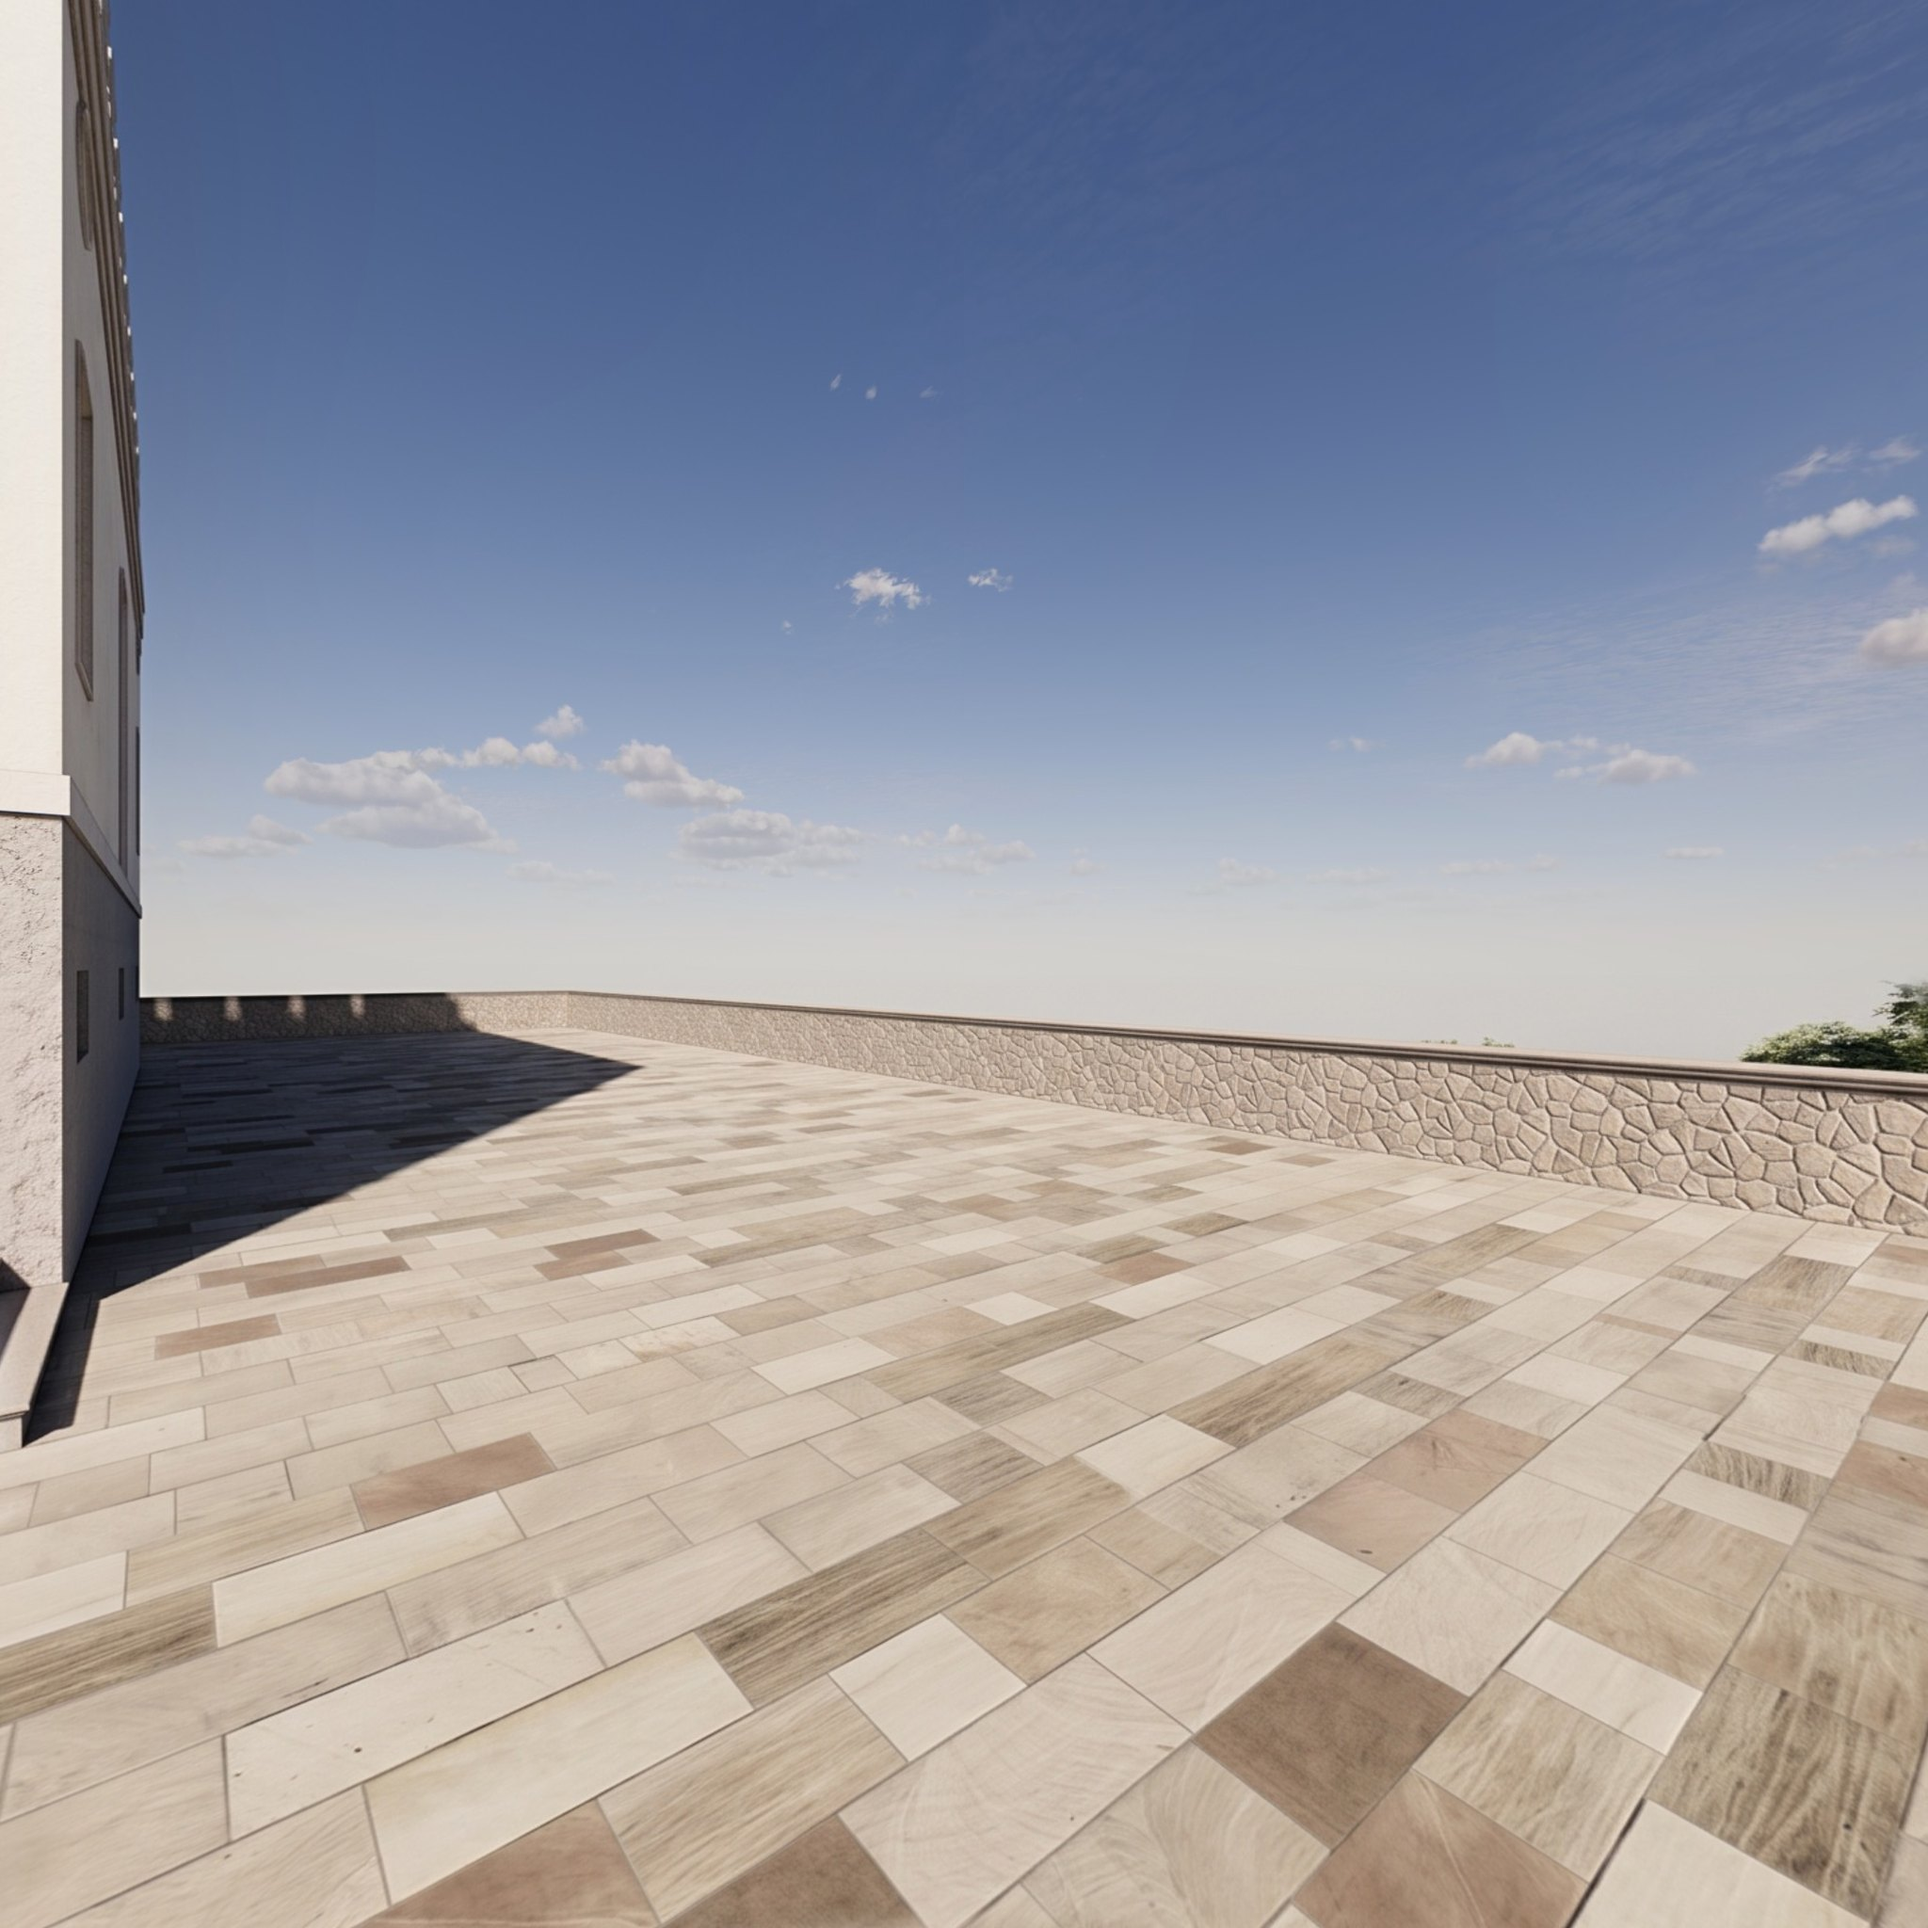
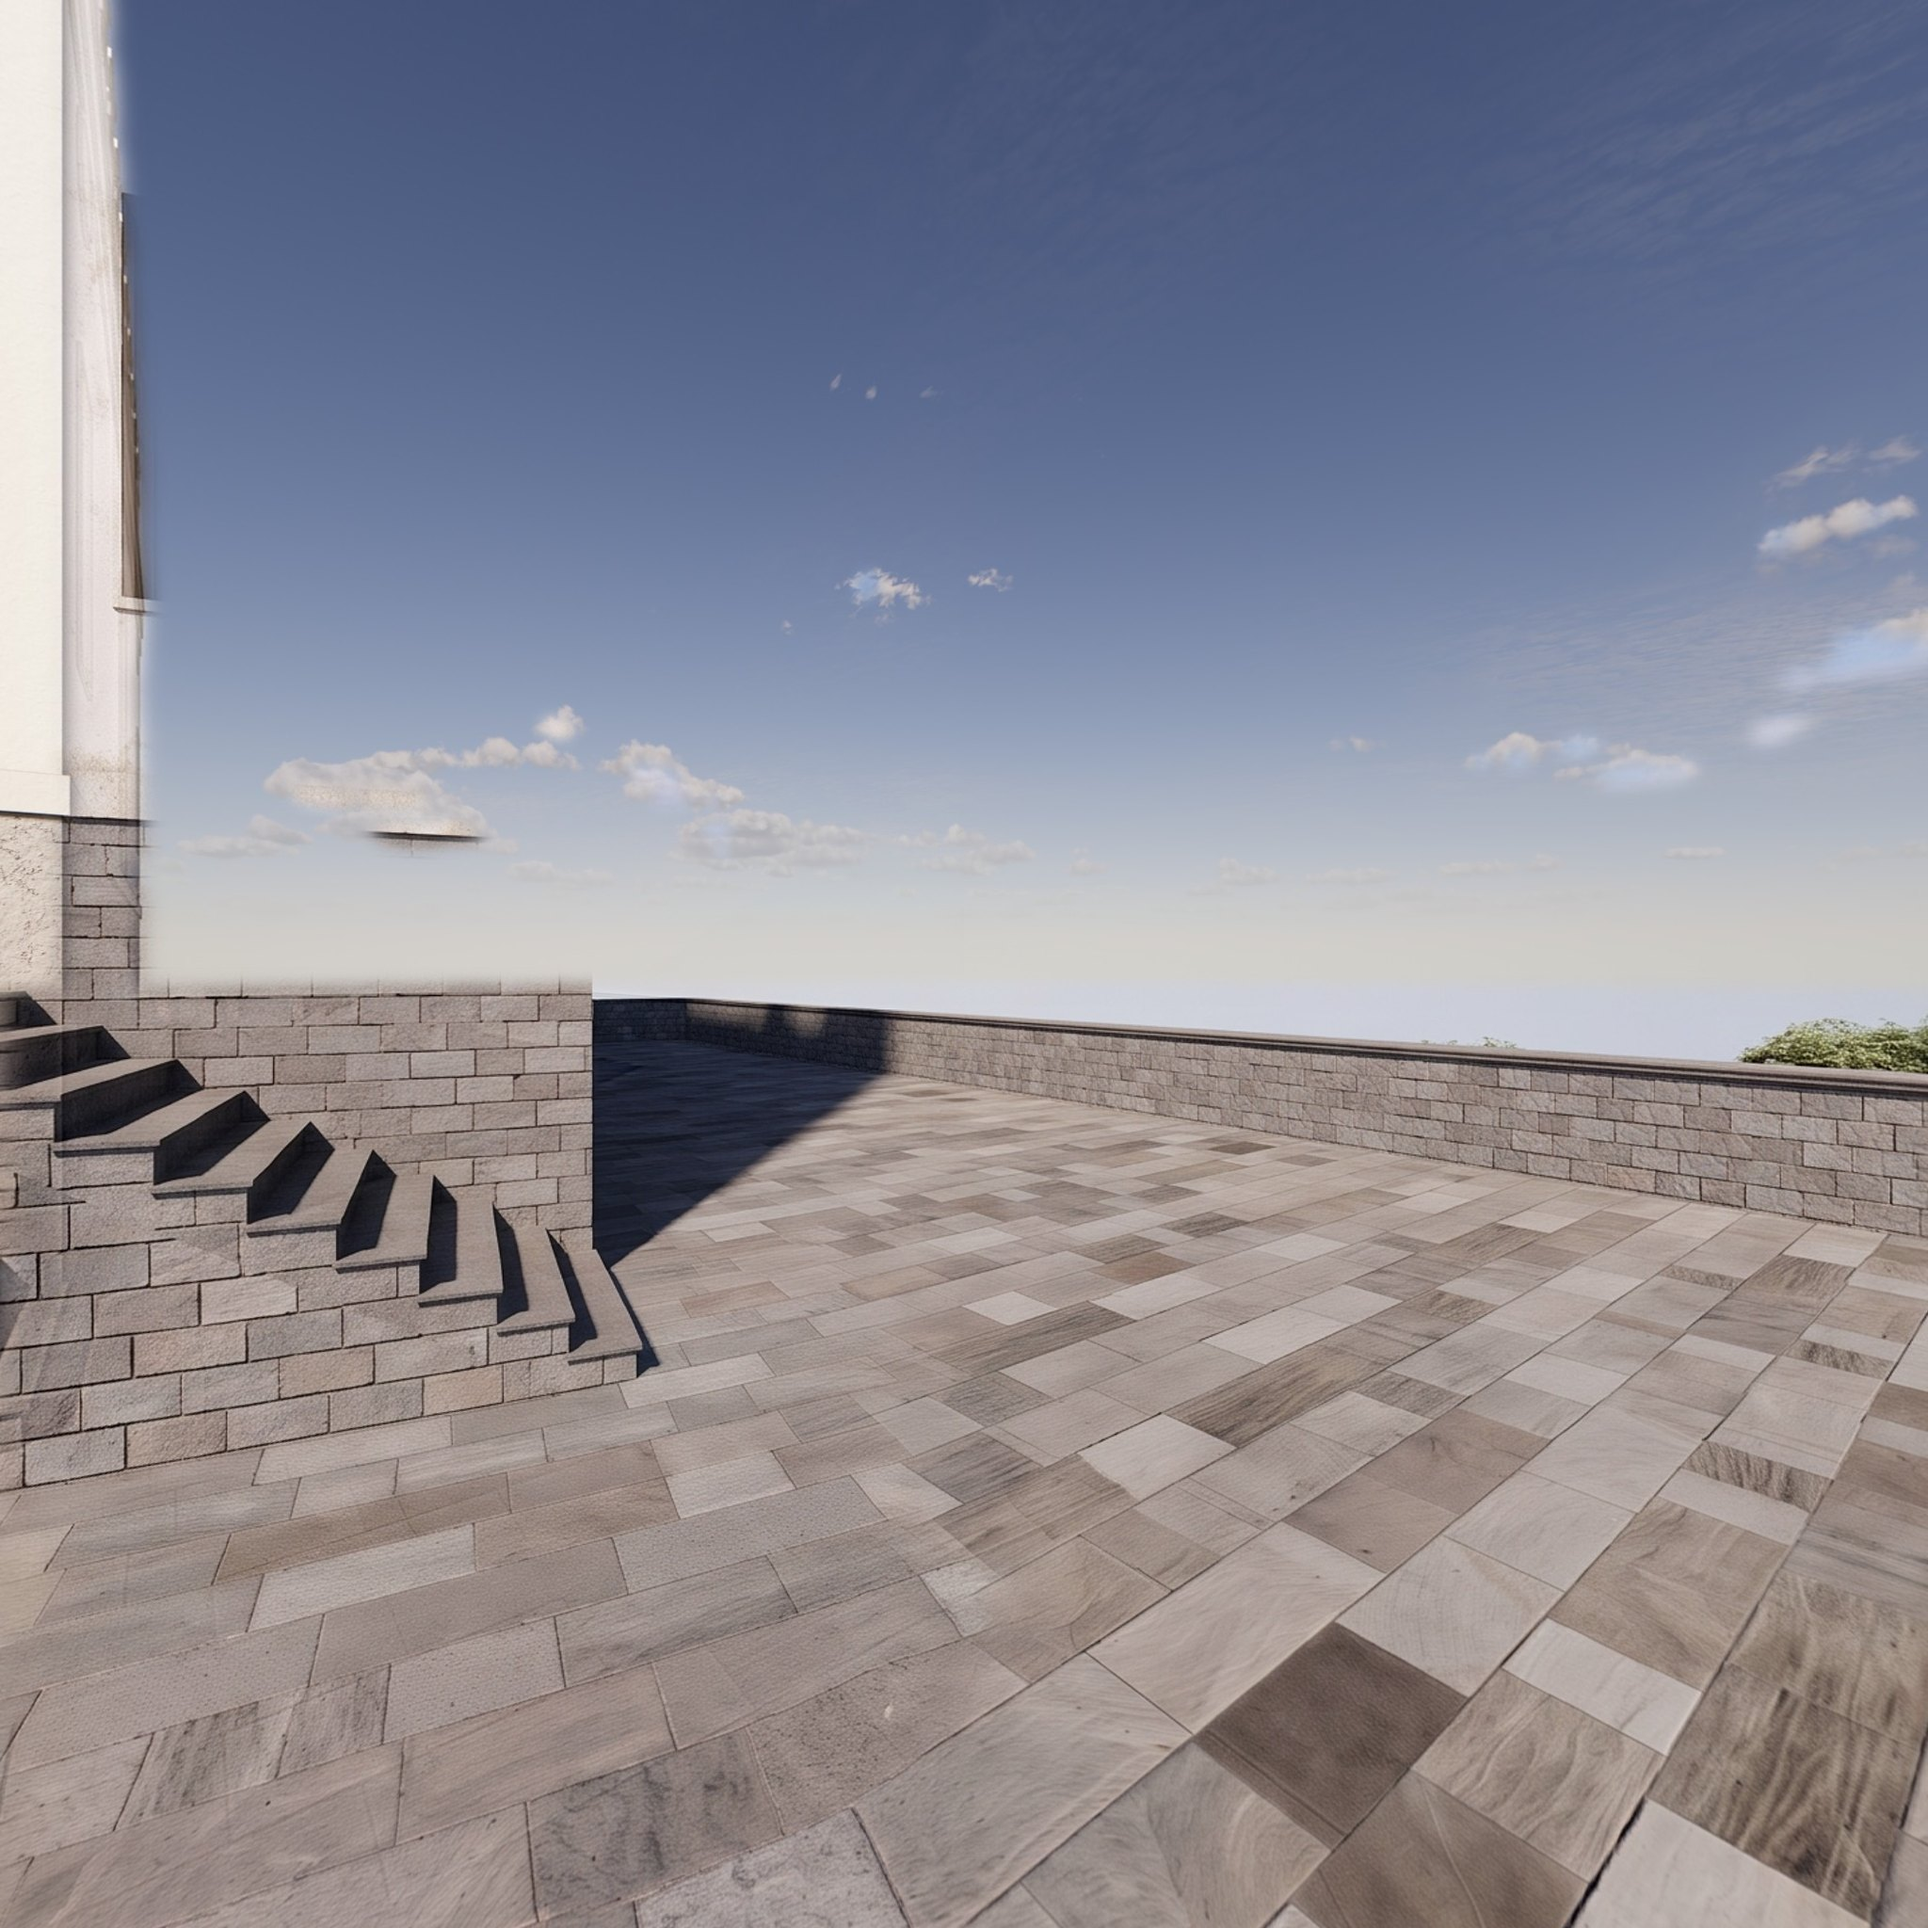
1593: terrazza rifatta in trachite euganea (lastre e muretti in spaccatello), sala con fusione a due bande e compensazione dell'esposizione fra le facce
Claude-Session: https://claude.ai/code/session_01BjRViqfuZuswyaW4CNcrLU

diff --git a/panos.js b/panos.js
@@ -4,7 +4,7 @@ window.VS_PANOS = {
   "1593_1": { year: "1593", n: 1, title: "La prima villa", place: "Interno della sala", caption: "Ricostruzione in modello bianco dell'ambiente interno della villa cinquecentesca.", yaw0: 0, levels: [512, 2048] },
   "1593_1ai": { year: "1593", n: 1, title: "La prima villa", place: "Interno della sala · prova fotorealistica (AI)", caption: "La sala ottagonale con materiali plausibili (intonaco a calce, cornici in pietra, cotto): geometria del modello, resa fotografica generata.", yaw0: 0, levels: [512, 2048], variant: true },
   "1593_2": { year: "1593", n: 2, title: "La prima villa", place: "La terrazza", caption: "Modello bianco della villa e della terrazza: la ricostruzione ipotetica della prima villa.", yaw0: 0, levels: [512, 2048] },
-  "1593_2ai": { year: "1593", n: 2, title: "La prima villa", place: "La terrazza · prova fotorealistica (AI)", caption: "La terrazza e la villa con materiali plausibili (lastre di pietra, muro a vista, intonaco a calce); cielo e geometria del render originale.", yaw0: 0, levels: [512, 2048], variant: true },
+  "1593_2ai": { year: "1593", n: 2, title: "La prima villa", place: "La terrazza · prova fotorealistica (AI)", caption: "La terrazza in trachite euganea (lastre a terra, muretti in spaccatello) e la villa con intonaco a calce; cielo e geometria del render originale.", yaw0: 0, levels: [512, 2048], variant: true },
   "1650_1": { year: "1650", n: 1, title: "Il giardino seicentesco", place: "La terrazza e il parterre", caption: "Il muro di sostegno della terrazza, il parterre disegnato e il viale alberato.", yaw0: 0, levels: [512, 2048] },
   "1650_2": { year: "1650", n: 2, title: "Il giardino seicentesco", place: "Il viale dei cipressi", caption: "Il viale fiancheggiato dai cipressi, dal basso verso la villa.", yaw0: 0, levels: [512, 2048] },
   "1851_1": { year: "1851", n: 1, title: "Il giardino ottocentesco", place: "Il prato e la serra", caption: "Il grande prato con le siepi e la serra lungo il margine del giardino.", yaw0: 0, levels: [512, 2048] },
